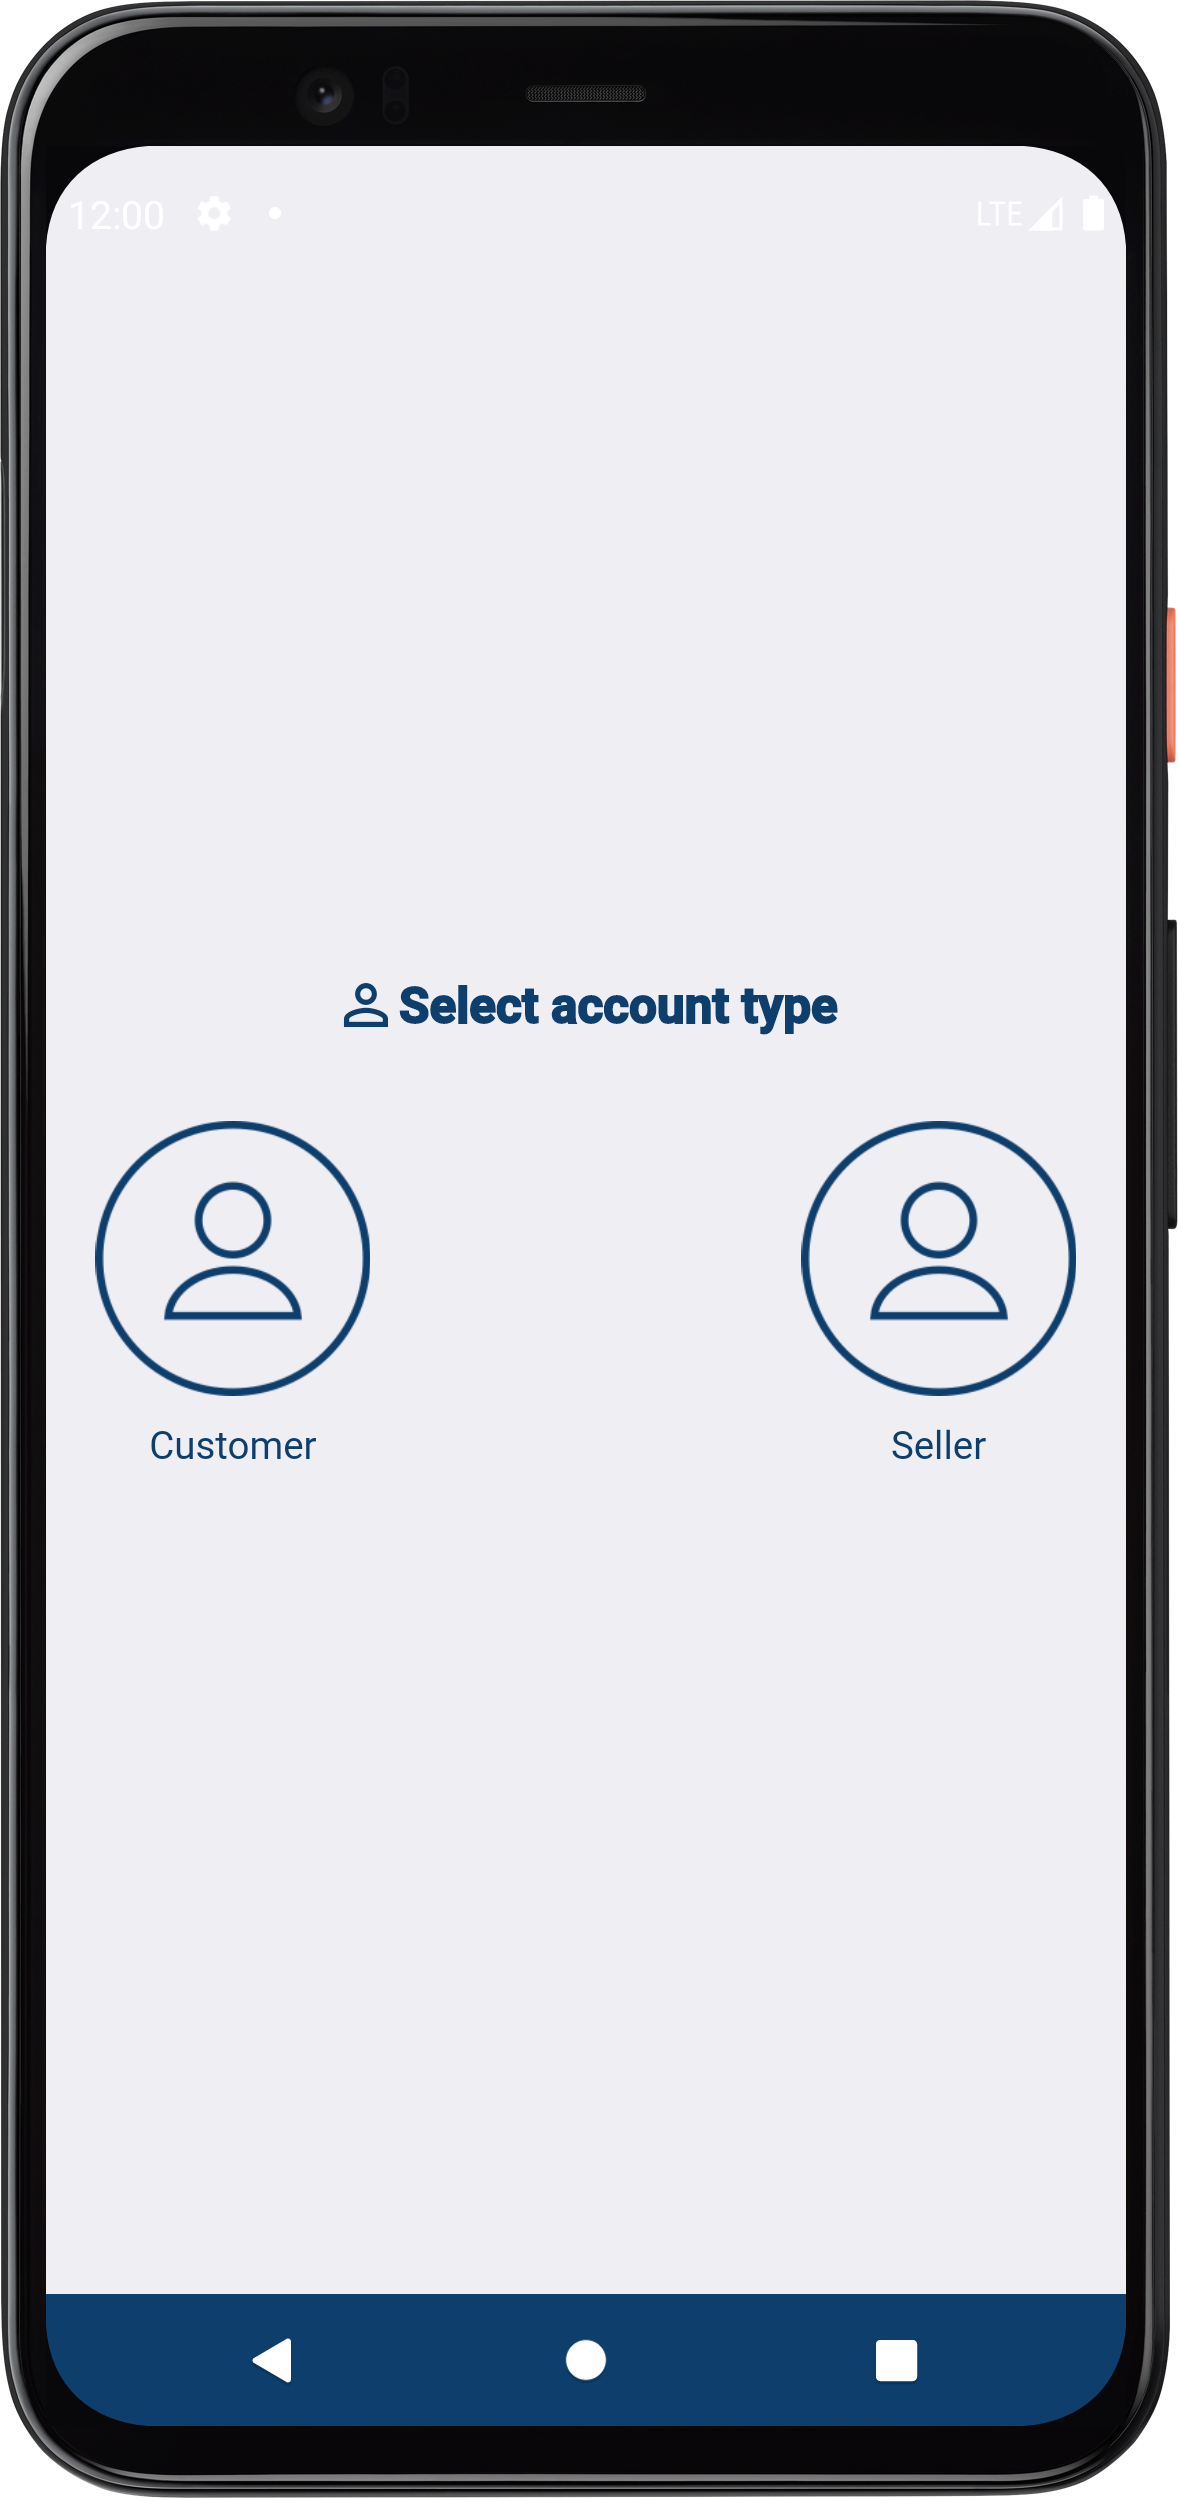
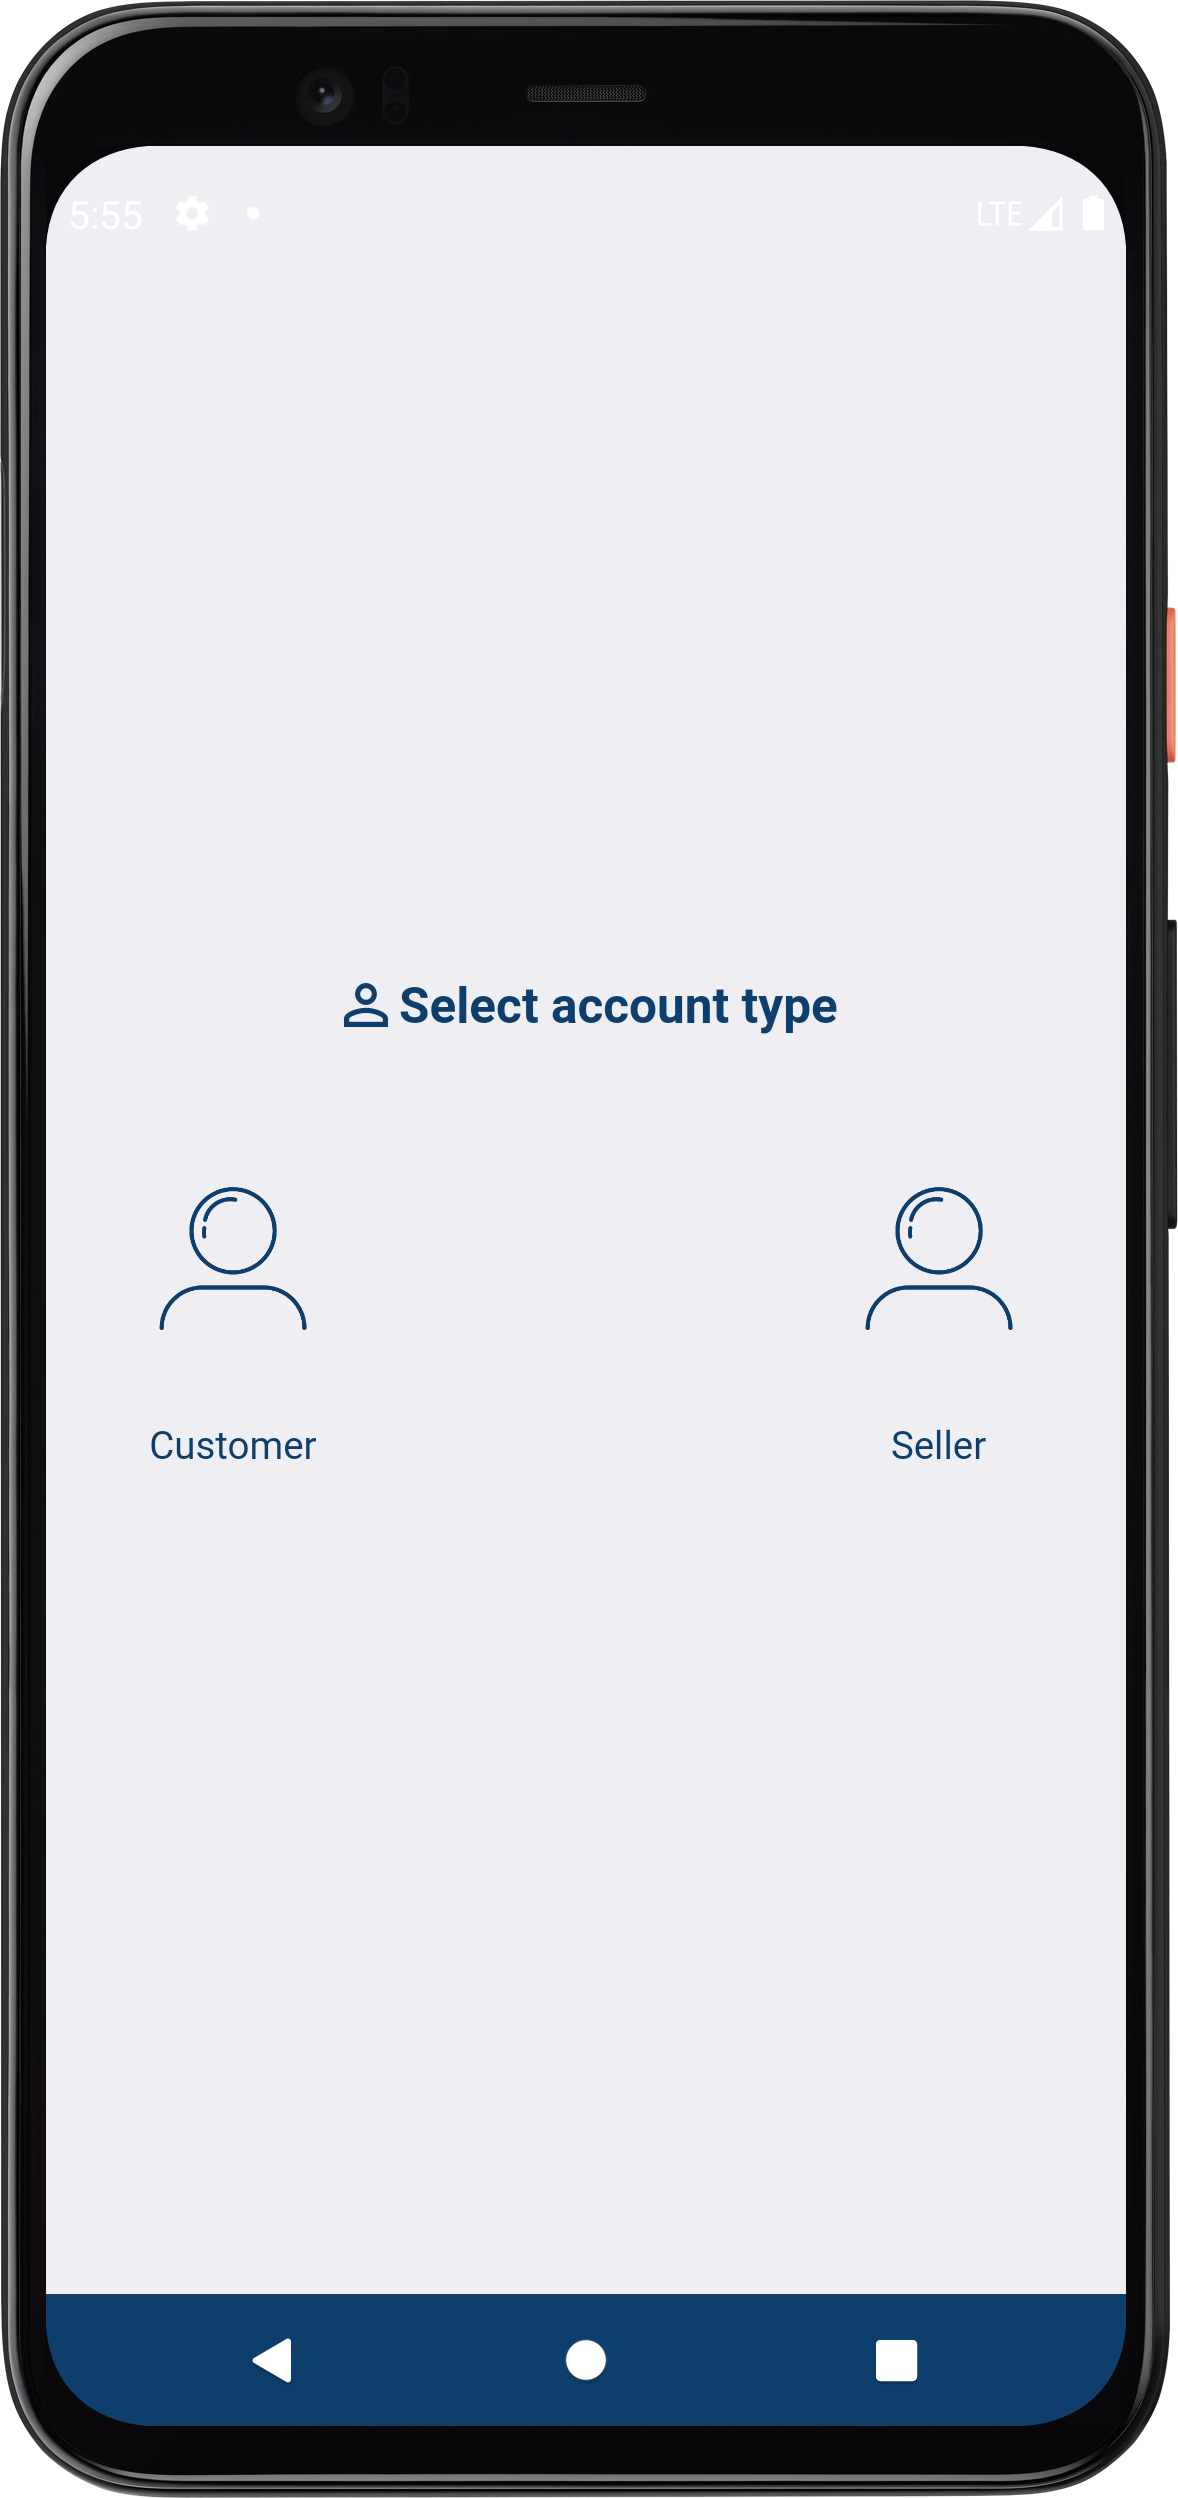
splash adjustment

diff --git a/lib/views/splash/splash.dart b/lib/views/splash/splash.dart
@@ -28,6 +28,25 @@ class _SplashScreenState extends State<SplashScreen> {
   //   return  _pageController.page?.round() ?? 0;
   // }
 
+
+  void skipSlides() {
+    _pageController.animateToPage(
+      2,
+      duration: const Duration(seconds: 1),
+      curve: Curves.easeIn,
+    );
+  }
+
+  void nextSlide() {
+    currentPageIndex != 2
+        ? _pageController.nextPage(
+      duration: const Duration(seconds: 1),
+      curve: Curves.easeIn,
+    )
+        : Navigator.of(context).pushNamed(RouteManager.accountType);
+  }
+
+
   List<SplashItem> splashItems = [
     SplashItem(
       title: StringManager.splashTitle1,
@@ -49,6 +68,24 @@ class _SplashScreenState extends State<SplashScreen> {
   @override
   Widget build(BuildContext context) {
     return Scaffold(
+      appBar: AppBar(
+        automaticallyImplyLeading: false,
+        elevation: 0,
+        backgroundColor: Colors.transparent,
+        actions: [
+          currentPageIndex != splashItems.length - 1
+              ? TextButton(
+            onPressed: () => skipSlides(),
+            child: const Text(
+              'Skip',
+              style: TextStyle(
+                color: accentColor,
+              ),
+            ),
+          )
+              : const SizedBox.shrink()
+        ],
+      ),
       body: PageView.builder(
         controller: _pageController,
         onPageChanged: (index) {
@@ -103,14 +140,11 @@ class _SplashScreenState extends State<SplashScreen> {
               ),
             ),
             ElevatedButton(
-              onPressed: () => currentPageIndex != 2
-                  ? _pageController.nextPage(
-                      duration: const Duration(seconds: 1),
-                      curve: Curves.easeIn,
-                    )
-                  : Navigator.of(context).pushNamed(RouteManager.accountType),
+              onPressed: () => nextSlide(),
               child: Text(
-                currentPageIndex != 2 ? 'Next' : 'Start Exploring',
+                currentPageIndex != splashItems.length - 1
+                    ? 'Next'
+                    : 'Start Exploring',
               ),
             )
           ],
@@ -119,3 +153,6 @@ class _SplashScreenState extends State<SplashScreen> {
     );
   }
 }
+
+
+

diff --git a/lib/views/customer/home_screen.dart b/lib/views/customer/home_screen.dart
@@ -1,5 +1,6 @@
 import 'package:flutter/material.dart';
 import '../../resources/values_manager.dart';
+import '../widgets/banners.dart';
 import '../widgets/cart_icon.dart';
 import '../widgets/search_box.dart';
 import '../widgets/welcome_intro.dart';
@@ -16,25 +17,31 @@ class _CustomerHomeScreenState extends State<CustomerHomeScreen> {
 
   @override
   Widget build(BuildContext context) {
-    return Padding(
-      padding: EdgeInsets.only(
-        top: MediaQuery.of(context).padding.top,
-        right: 18,
-        left: 18,
-      ),
-      child: Column(
-        children: [
-          Row(
-            mainAxisAlignment: MainAxisAlignment.spaceBetween,
-            children: const [
-              WelcomeIntro(),
-              CartIcon(),
+    return Column(
+      children: [
+        Padding(
+          padding: EdgeInsets.only(
+            top: MediaQuery.of(context).padding.top,
+            right: 18,
+            left: 18,
+          ),
+          child: Column(
+            children: [
+              Row(
+                mainAxisAlignment: MainAxisAlignment.spaceBetween,
+                children: const [
+                  WelcomeIntro(),
+                  CartIcon(),
+                ],
+              ),
+              const SizedBox(height: AppSize.s10),
+              SearchBox(searchText: searchText),
             ],
           ),
-          const SizedBox(height: AppSize.s10),
-          SearchBox(searchText: searchText),
-        ],
-      ),
+        ),
+        const SizedBox(height: AppSize.s10),
+        BannerComponent()
+      ],
     );
   }
 }

diff --git a/lib/views/widgets/banners.dart b/lib/views/widgets/banners.dart
@@ -1,0 +1,33 @@
+import 'package:flutter/material.dart';
+
+class BannerComponent extends StatefulWidget {
+  const BannerComponent({Key? key}) : super(key: key);
+
+  @override
+  State<BannerComponent> createState() => _BannerComponentState();
+}
+
+class _BannerComponentState extends State<BannerComponent> {
+  PageController _pageController =  PageController();
+
+  @override
+  Widget build(BuildContext context) {
+    return Container(
+      height: 250,
+      width: MediaQuery.of(context).size.width,
+      decoration: BoxDecoration(
+        color: Colors.orangeAccent,
+      ),
+      child: PageView(
+        controller:_pageController,
+        children:[
+          Image.asset('assets/images/Sliders/1.jpg', fit: BoxFit.cover),
+          Image.asset('assets/images/Sliders/2.jpg', fit: BoxFit.cover),
+          Image.asset('assets/images/Sliders/3.jpg', fit: BoxFit.cover),
+          Image.asset('assets/images/Sliders/6.jpg', fit: BoxFit.cover)
+
+        ]
+      ),
+    );
+  }
+}

diff --git a/lib/resources/styles_manager.dart b/lib/resources/styles_manager.dart
@@ -79,14 +79,14 @@ TextStyle getBoldStyle({
 }
 
 // medium fontstyle
-// TextStyle getMediumStyle({
-//   fontSize = FontSize.s12,
-//   required Color color,
-// }) {
-//   return _getTextStyle(
-//     fontSize,
-//     FontConstants.fontFamily,
-//     color,
-//     FontWeightManager.medium,
-//   );
-// }
+TextStyle getMediumStyle({
+  fontSize = FontSize.s12,
+  required Color color,
+}) {
+  return _getTextStyle(
+    fontSize,
+    FontConstants.fontFamily,
+    color,
+    FontWeightManager.medium,
+  );
+}

diff --git a/lib/views/auth/account_type.dart b/lib/views/auth/account_type.dart
@@ -48,7 +48,7 @@ class AccountTypeScreen extends StatelessWidget {
                 const Icon(Icons.person_outline, color:accentColor),
                 Text(
                 'Select account type',
-                style: getBoldStyle(
+                style: getMediumStyle(
                   color: accentColor,
                   fontSize: FontSize.s18,
                 ),

diff --git a/lib/resources/font_manager.dart b/lib/resources/font_manager.dart
@@ -8,6 +8,7 @@ class FontWeightManager {
   static const FontWeight light = FontWeight.w300;
   static const FontWeight normal = FontWeight.w500;
   static const FontWeight bold = FontWeight.w900;
+  static const FontWeight medium = FontWeight.w700;
 }
 
 class FontSize{
